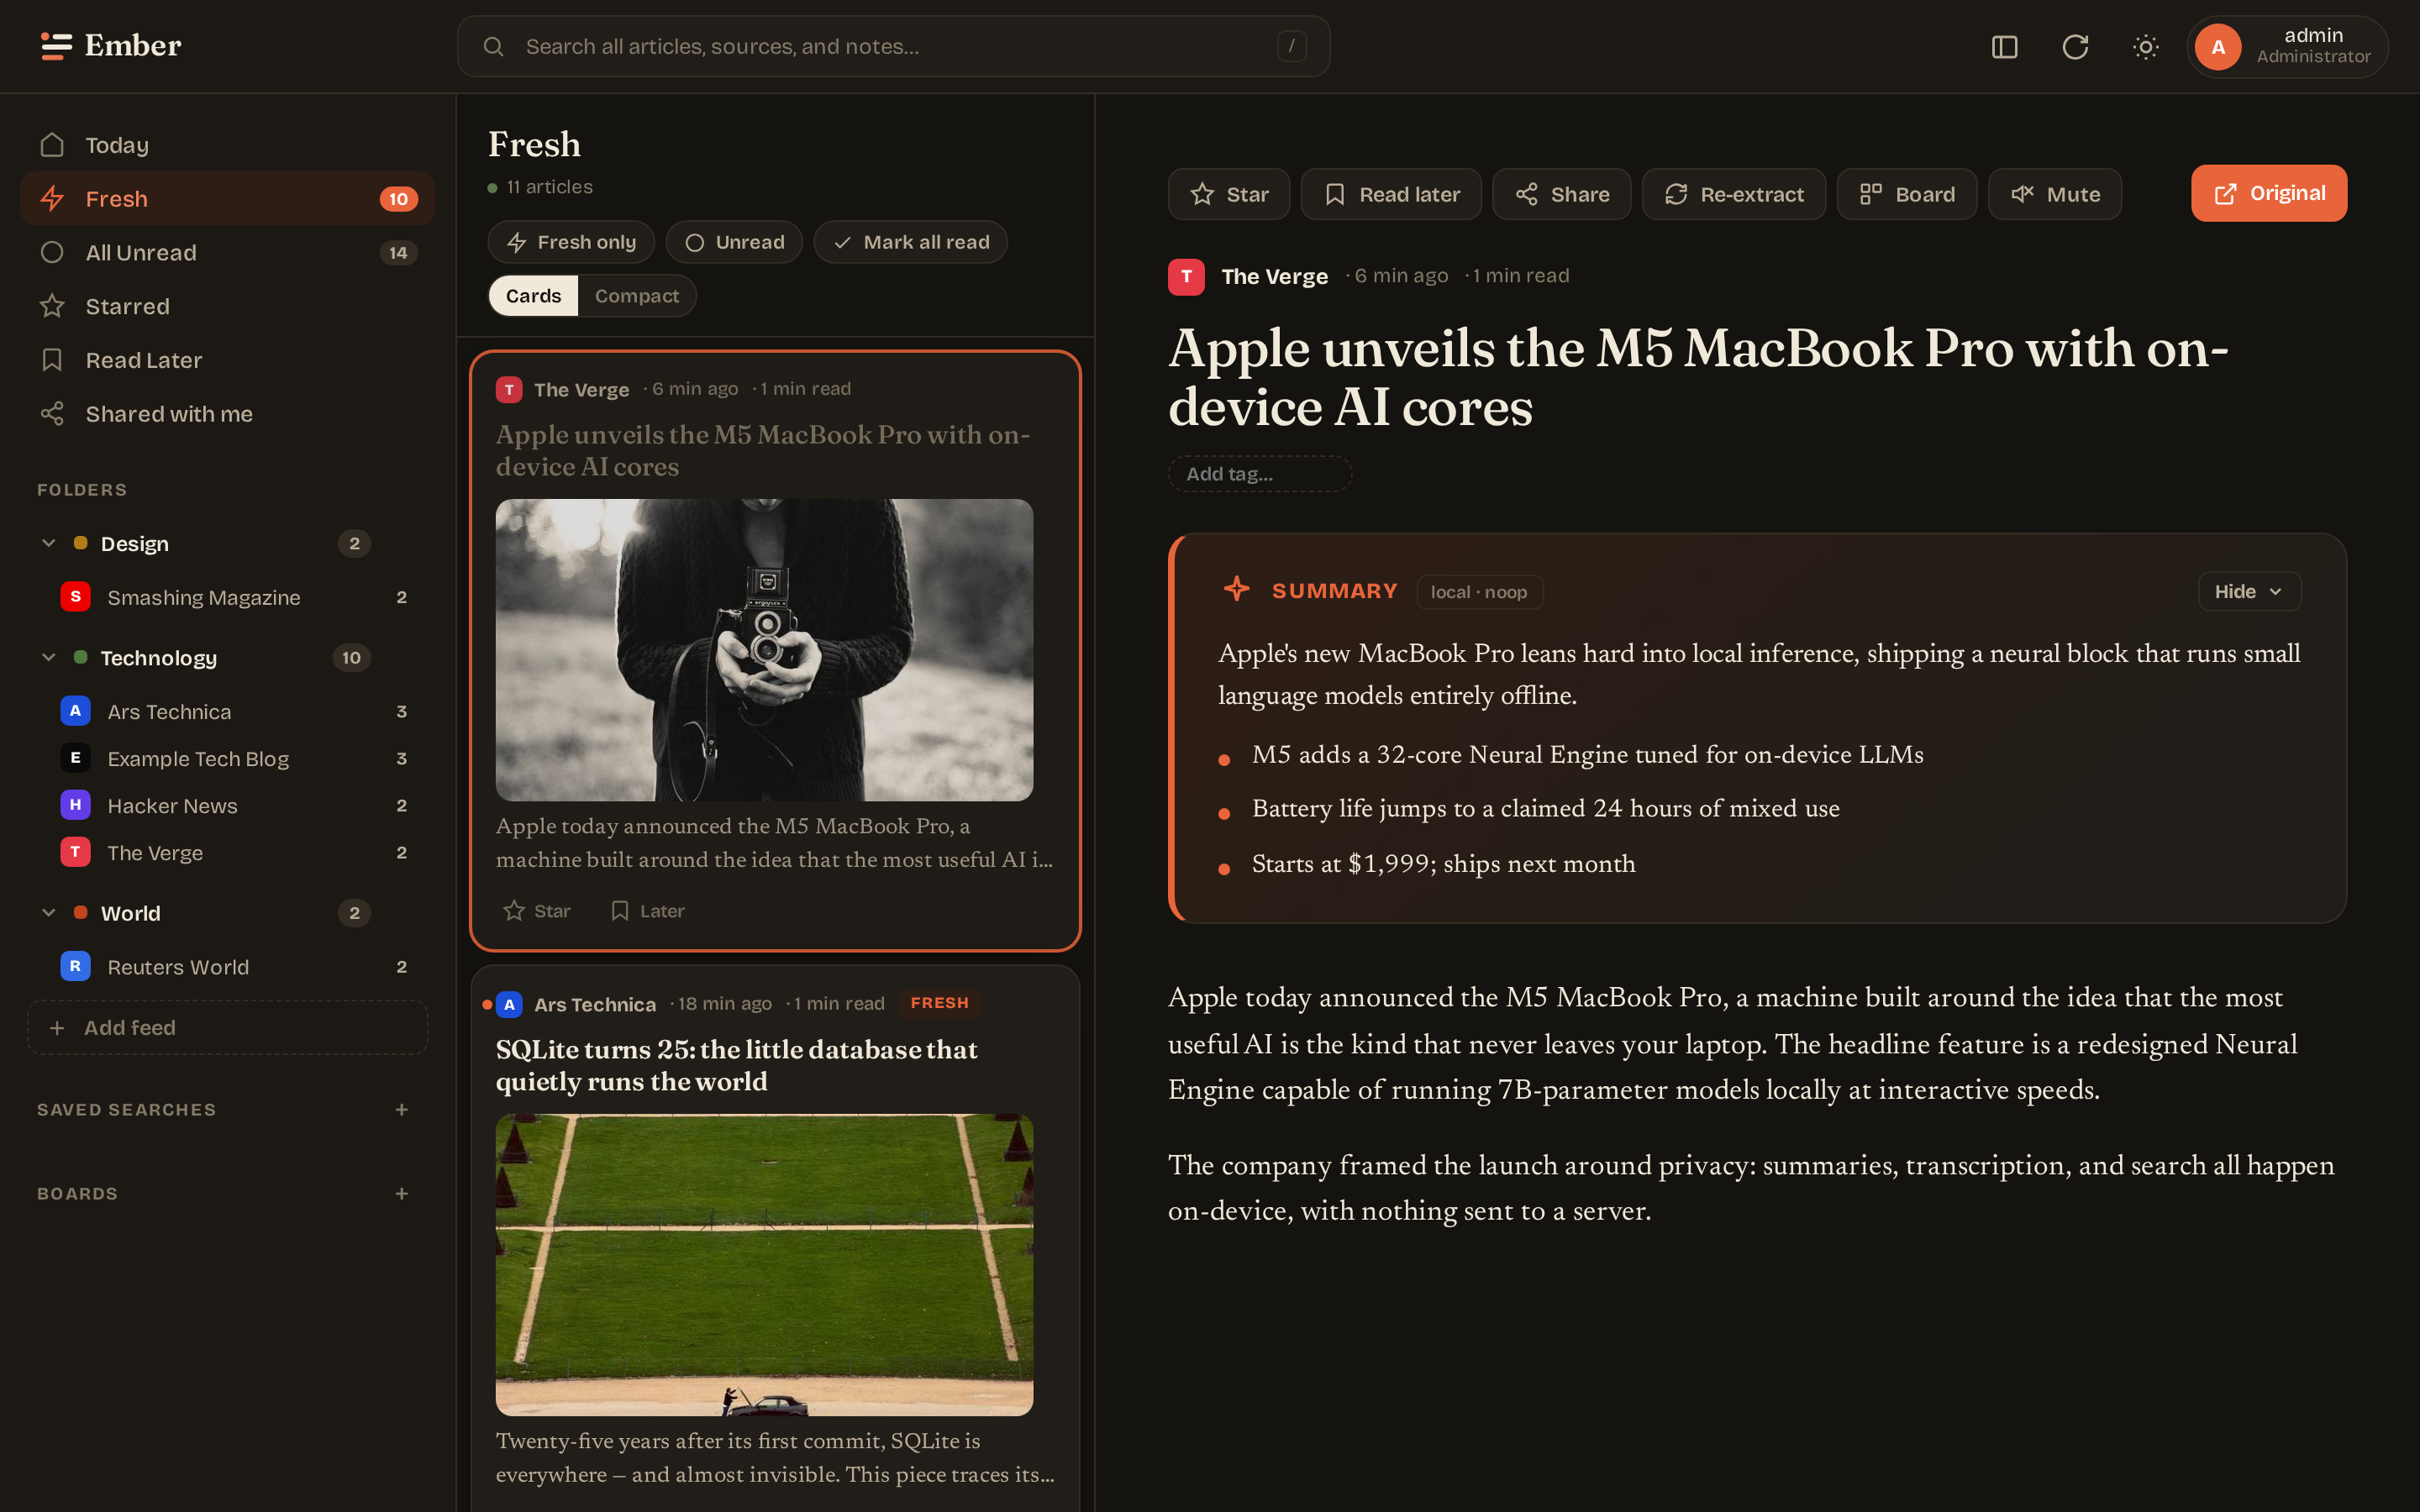
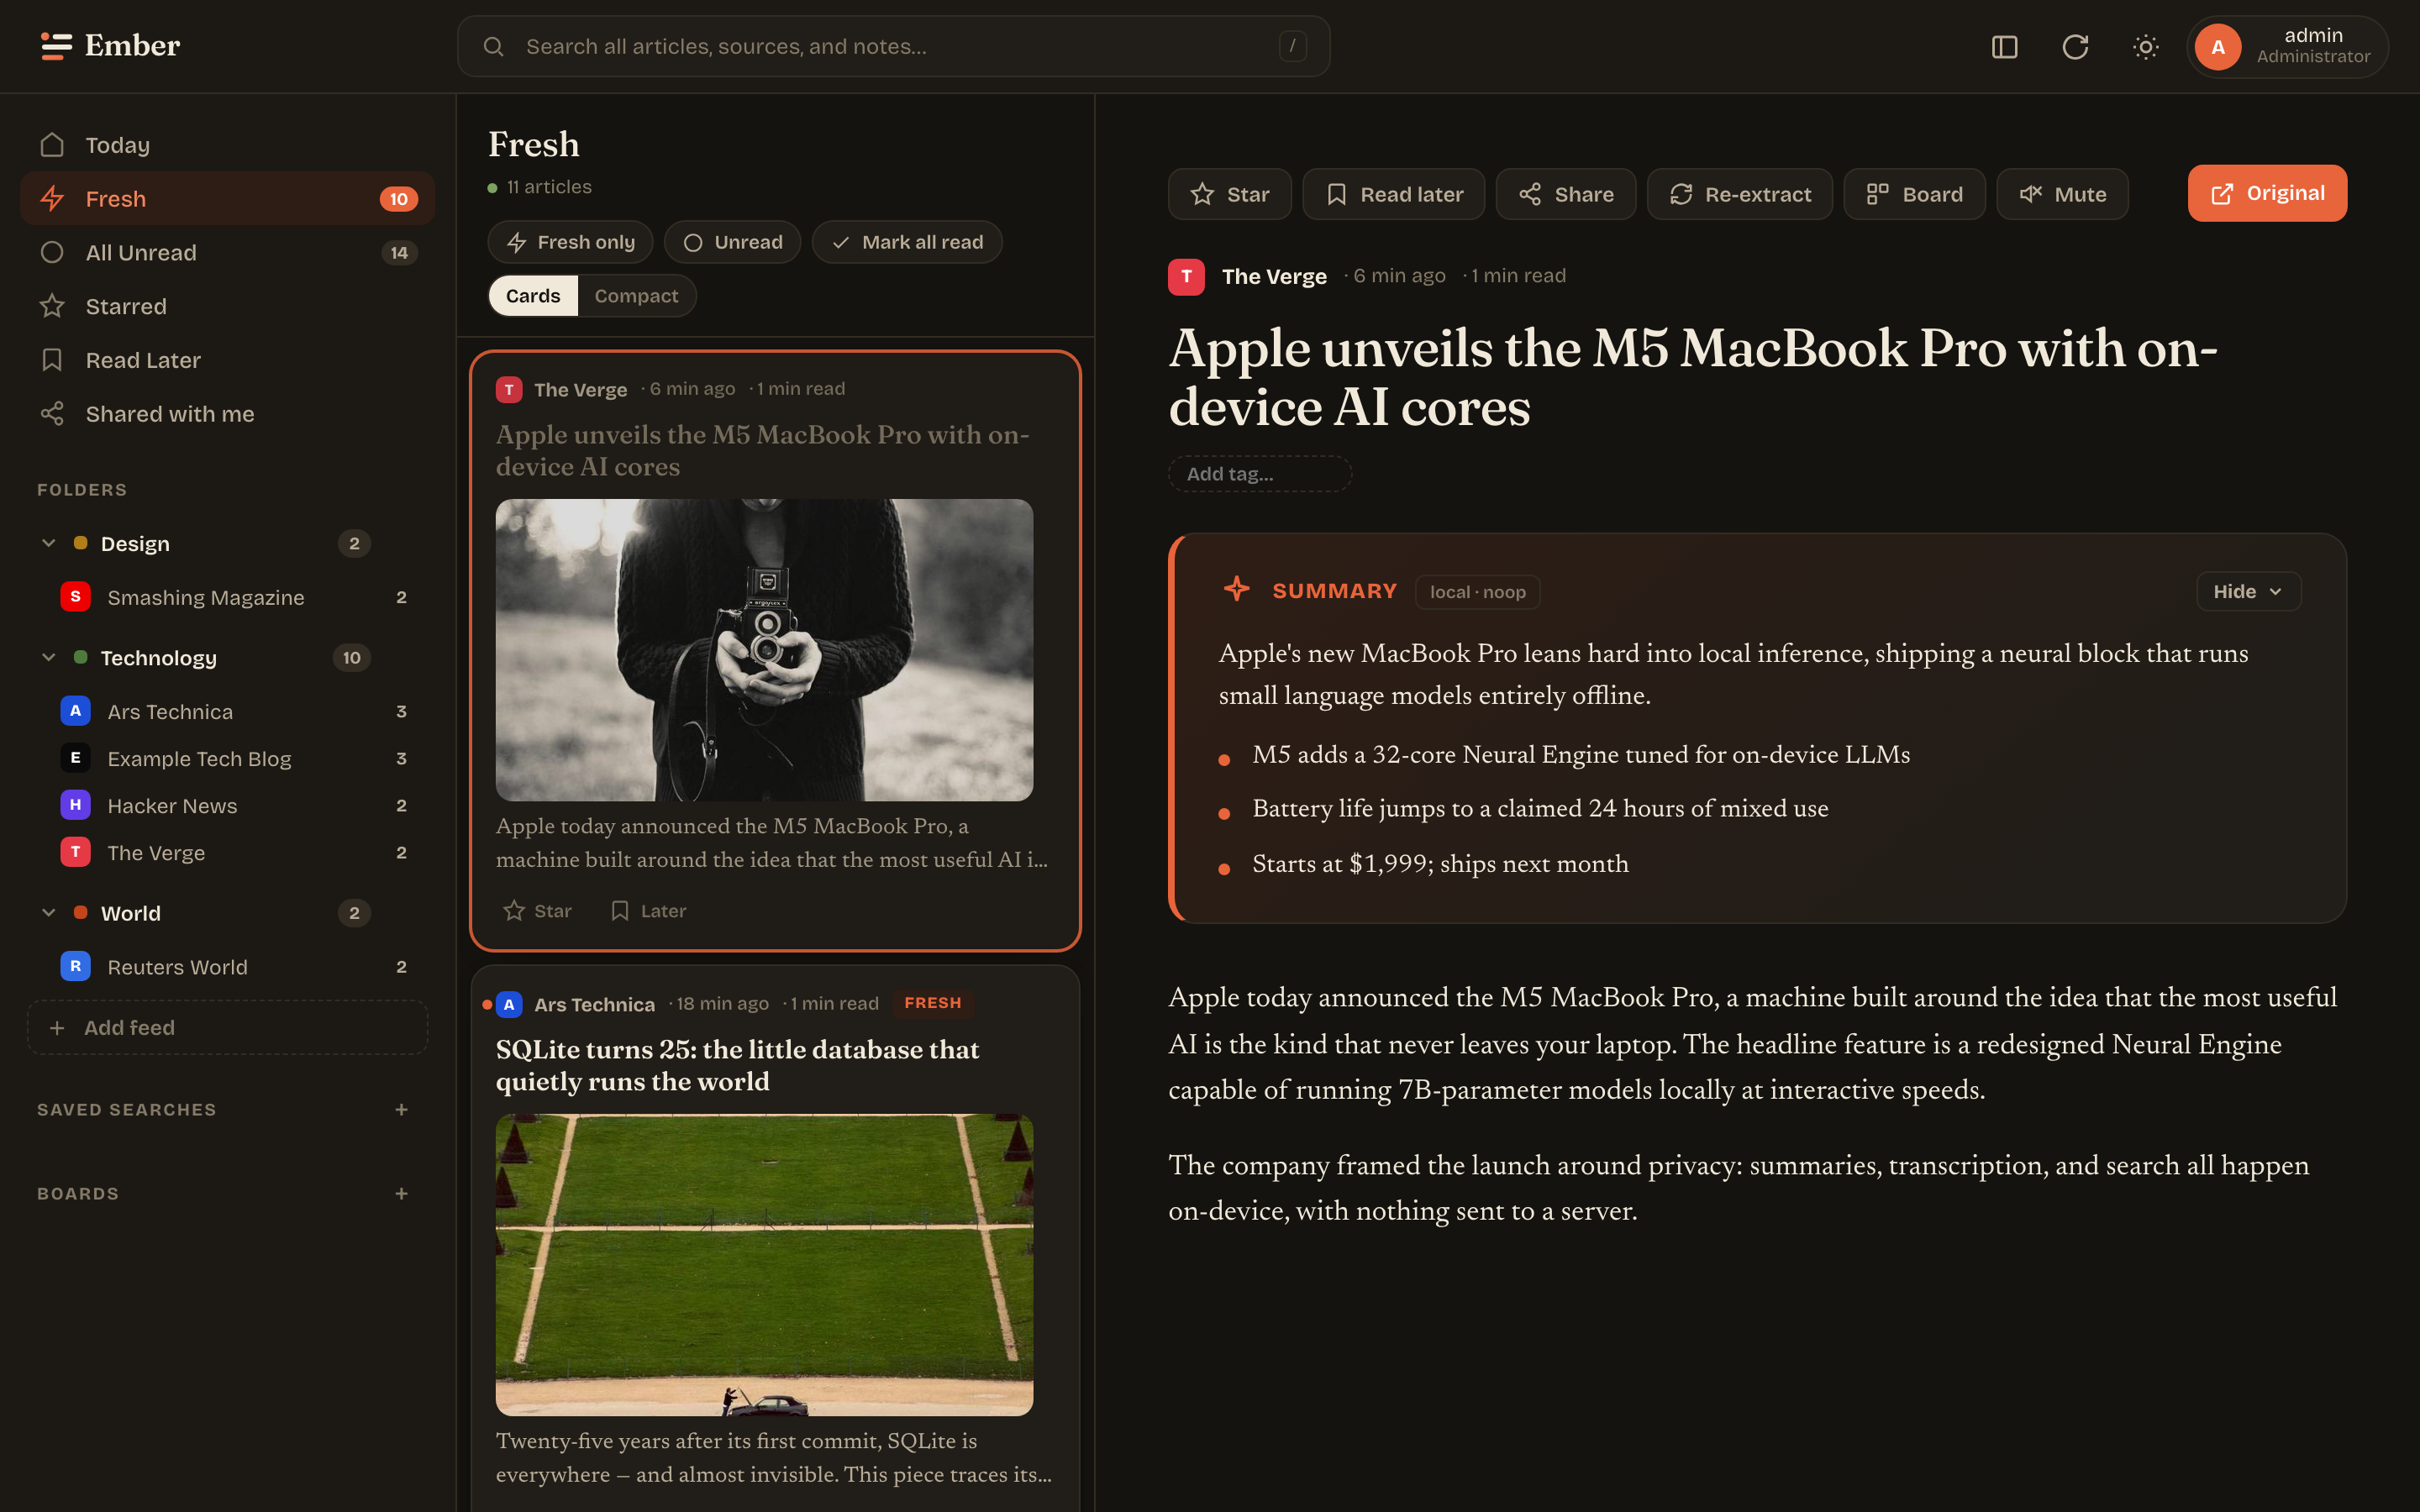
docs(site): align non-WIP docs (style.css + hero) with main
- style.css: restore the .light-only/.dark-only theme-paired-image rules
  present on main. They were missing on develop, so the dual-theme
  screenshots ported in #95 weren't switching by docs theme (both images
  showed). This makes the inversion actually work on develop.
- hero PNGs: adopt main's hero captures for visual parity.

WIP-feature docs (notifications, email inbox + their config/security/
architecture/getting-started content) are intentionally kept fuller in
develop and not re-stubbed to match main.

diff --git a/docs/.vitepress/theme/style.css b/docs/.vitepress/theme/style.css
@@ -107,6 +107,16 @@ h1, h2, h3, .VPHero .name, .VPHero .text {
   margin-right: 4px !important;
 }
 
+/* Theme-paired images. Author content pages with two <img>'s next to
+   each other:
+     <img src="./public/screenshots/reader-desktop-light.png" class="light-only" alt="...">
+     <img src="./public/screenshots/reader-desktop-dark.png"  class="dark-only"  alt="...">
+   The browser hides whichever doesn't match the current docs theme.
+   Without this, a cream/paper screenshot disappears against the cream
+   page bg in light mode (or vice versa in dark mode). */
+:root:not(.dark) .dark-only { display: none !important; }
+:root.dark .light-only       { display: none !important; }
+
 /* Nav-bar polish + reordering.
    Default VitePress packs nav elements as:
      [title] [search ←pushed right] [menu] [appearance] [socialLinks]